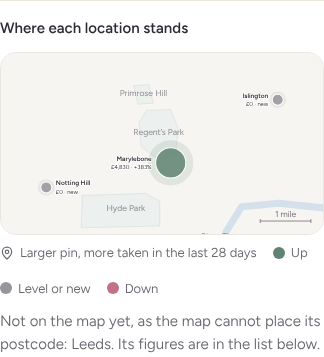
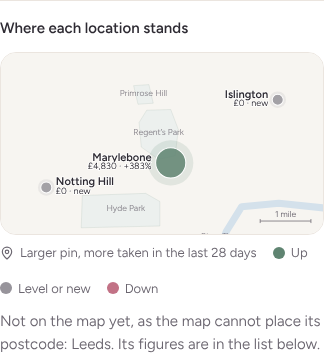
Branch map: readable labels on a phone, and the note for regional managers
Claude-Session: https://claude.ai/code/session_011jU4Hw7a5fiR9C84Xei5BF

Changed region(s): [[0.1543, 0.4314, 0.463, 0.5546], [0.679, 0.2465, 0.8333, 0.3081], [0.5864, 0.9552, 0.6173, 0.986]]

diff --git a/src/pages/AreaHome.tsx b/src/pages/AreaHome.tsx
@@ -297,12 +297,17 @@ export function AreaHome() {
               </li>
             ))}
           </ul>
-          {record.map && (
-            <div className="group-map">
-              <h3>Where each location stands</h3>
+          <div className="group-map">
+            <h3>Where each location stands</h3>
+            {record.map ? (
               <BranchMap org={org} pins={record.map.pins} features={record.map.features} />
-            </div>
-          )}
+            ) : (
+              <p className="subtle">
+                A map appears once a map service is connected and two or more of your locations can
+                be placed on it. Until then, every figure is in the list above.
+              </p>
+            )}
+          </div>
         </section>
         <section className="surface ops-panel" aria-labelledby="area-put-right">
           <header>

diff --git a/src/components/group.css b/src/components/group.css
@@ -158,3 +158,12 @@
   border-radius: 50%;
   background: var(--pin);
 }
+@media (max-width: 560px) {
+  /* The map shrinks to about half on a phone, so its words are drawn larger to stay readable. */
+  .branch-name {
+    font-size: 22px;
+  }
+  .branch-value {
+    font-size: 18px;
+  }
+}
